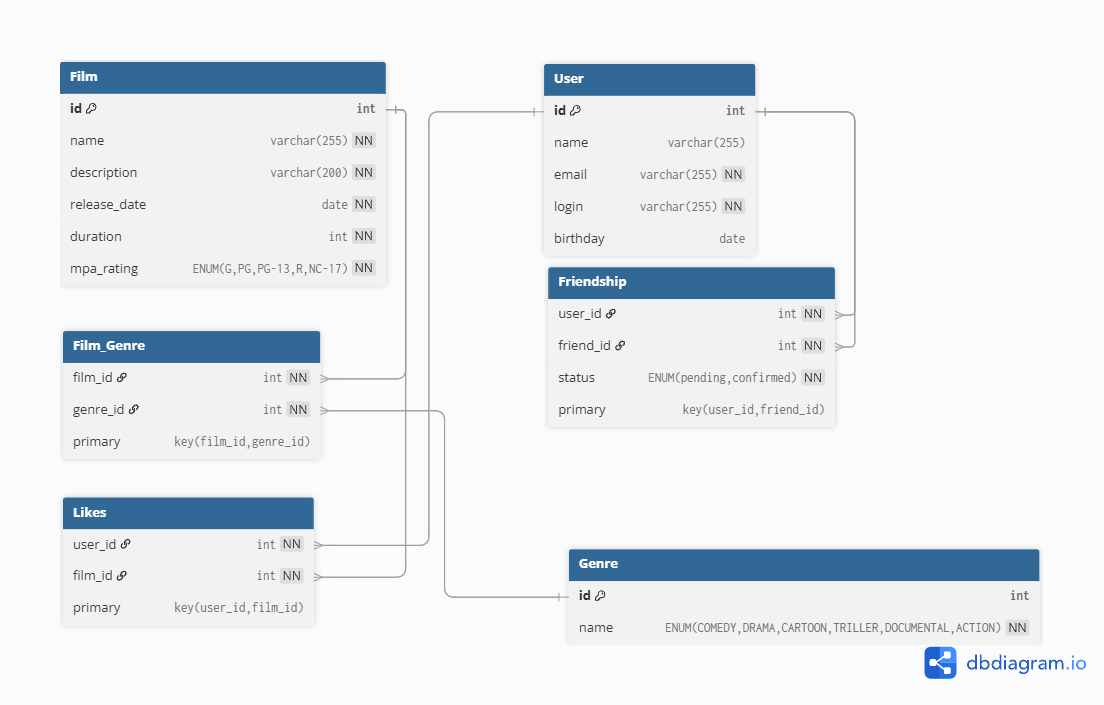
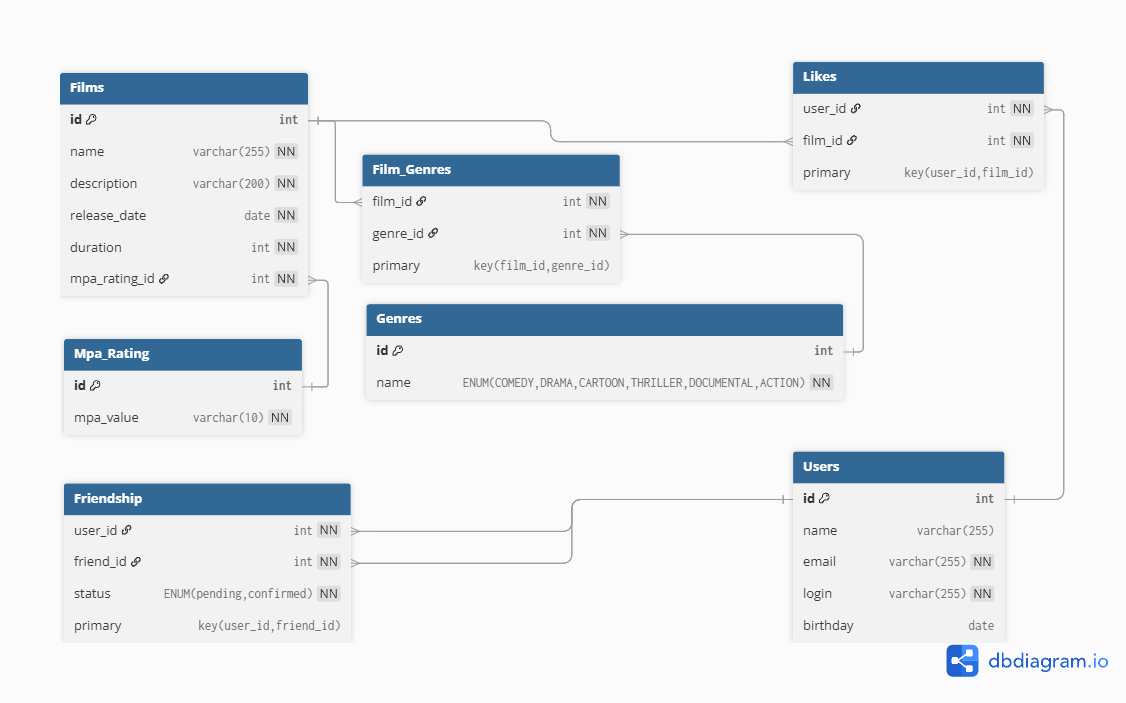
Доработана модель БД, актуализирован файл README.md

diff --git a/README.md b/README.md
@@ -11,8 +11,7 @@
 -`release_date` - дата релиза фильма 
 -`duration` - продолжительность фильма
 -`mpa_rating` - возврастной рейтинг фильма(G, PG, PG-13, R, NC-17) 
-=======
-**User** - таблица предназначенная для хранения информации о пользователях, со следующими полями:
+**User** - таблица предназначенная для хранения информации о фильмах, со следующими полями:
 -`id` - уникальный индентификатор пользователя
 -`name` - имя пользователя
 -`email` - электронная почта пользователя
